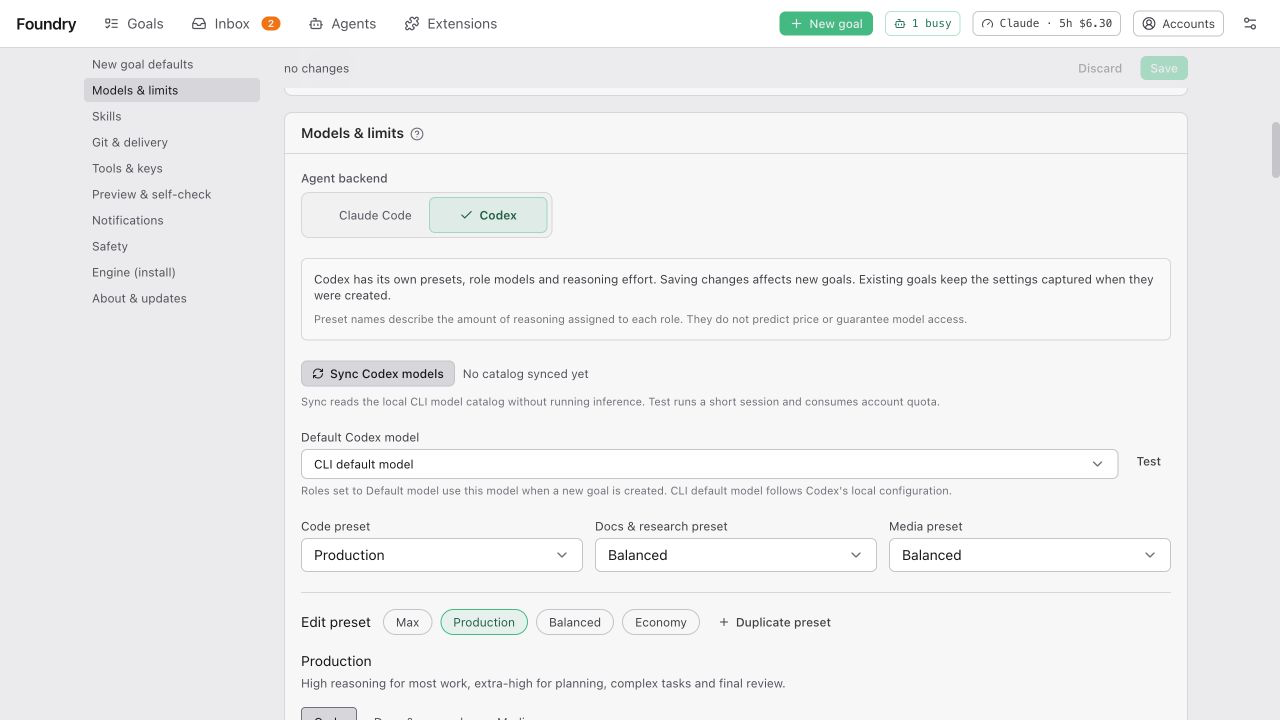
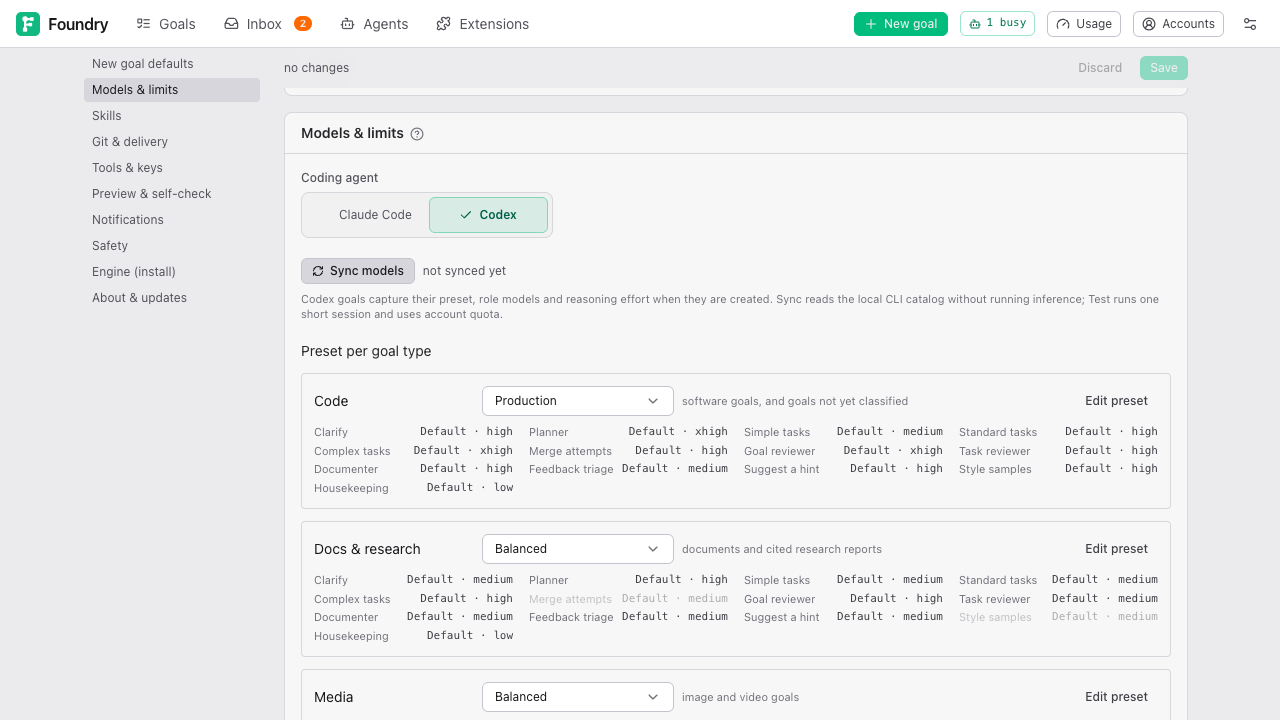
docs(guide): describe the shared Models panel layout for Codex
The Codex part of Models & limits now names the same controls as the other panel: Sync models, Preset per goal type cards with Edit preset, New from this, Reset, Delete, and Other models with Default Codex model and Fallbacks (in order). Both Codex Settings images are recaptured from the seeded demo; the Chinese twin follows.

diff --git a/docs/guide/settings.md b/docs/guide/settings.md
@@ -42,7 +42,7 @@ When to change: set **Interview before the Brief** to **always** if you like to 
 
 ## Models & limits
 
-This section decides which model does each job. Choose **Claude Code** or **Codex** under **Coding agent**; their presets and catalogs are independent. Session limits appear below the selected coding agent’s model settings.
+This section decides which model does each job. Choose **Claude Code** or **Codex** under **Coding agent**; their presets and catalogs are independent. Both panels have the same layout: **Sync models**, **Preset per goal type**, the **Presets** editor, then **Other models**. Session limits appear below the selected coding agent’s model settings.
 
 ![Settings, Models & limits: the Sync models button and one preset per goal type with its model grid](images/settings-models.png)
 
@@ -52,7 +52,7 @@ This section decides which model does each job. Choose **Claude Code** or **Code
 
 ### Codex presets and models
 
-With **Coding agent → Codex** selected, choose **Code preset**, **Docs & research preset** and **Media preset**. The defaults are Production for code and Balanced for the other goal types. These names are independent from Claude presets:
+With **Coding agent → Codex** selected, pick a preset for **Code**, **Docs & research** and **Media** under **Preset per goal type**. Each card lists every role as model · effort, for example `Default · high`; **Default** means the role uses **Default Codex model**. The defaults are Production for code and Balanced for the other goal types. These names are independent from Claude presets:
 
 | Preset | Reasoning profile |
 |---|---|
@@ -61,17 +61,17 @@ With **Coding agent → Codex** selected, choose **Code preset**, **Docs & resea
 | **Balanced** | Mostly `medium`; `high` for Planner, Complex tasks and Goal reviewer, `low` for Housekeeping. |
 | **Economy** | `low` for every role. |
 
-These profiles initially use **Default model · from Settings**. **Default Codex model** selects what that means for new goals. Leaving it as **CLI default model** follows the local Codex configuration; an explicit ID pins a model. Actual speed, quota use and availability depend on that model and your account. Foundry does not infer USD prices from preset names.
+These profiles initially use **Default model · from Settings**. **Default Codex model**, under **Other models**, selects what that means for new goals. Leaving it as **CLI default model** follows the local Codex configuration; an explicit ID pins a model. Actual speed, quota use and availability depend on that model and your account. Foundry does not infer USD prices from preset names.
 
 An Auto goal with the Default preset captures all three goal-type defaults at creation. It starts from the Code table for classification, then uses the captured table for its inferred type. Choosing an explicit preset instead keeps that preset across goal types.
 
-Under **Edit preset**, select a preset and the **Code**, **Docs & research** or **Media** table. Every role has a model dropdown and **Reasoning effort** selection. **Housekeeping** is part of the Codex preset. **Planner** runs in a separate Foundry planning session. Model metadata narrows the effort choices when available; **CLI default** leaves the effort unset. **Custom model ID…** accepts a newer or private model absent from the catalog.
+Press **Edit preset** on a card, or click a preset's name under **Presets**, then pick the **Code**, **Docs & research** or **Media** table. Every role row has a model dropdown, a reasoning effort dropdown and **Test**. A dot • marks a role you changed; hover it to see the shipped value. **Housekeeping** is part of the Codex preset. **Planner** runs in a separate Foundry planning session. Model metadata narrows the effort choices when available; **CLI default** leaves the effort unset. **Custom model ID…** accepts a newer or private model absent from the catalog.
 
-**Duplicate preset** creates an editable copy with a **Preset name** and **Description**. Editing a built-in marks it **modified**; **Reset to built-in** restores its shipped tables. **Delete preset** removes a custom preset and returns goal types using it to their built-in defaults. Press **Save** to apply these changes to new Codex goals. Existing goals retain their captured settings even if the original preset is renamed or deleted.
+**New from this** creates an editable copy with a **Name** and **Description**. Editing a built-in marks it **modified**; **Reset** restores its shipped tables. **Delete** removes a custom preset and returns goal types using it to their built-in defaults. Press **Save** to apply these changes to new Codex goals. Existing goals retain their captured settings even if the original preset is renamed or deleted.
 
-**Sync Codex models** reads the local CLI catalog without running inference. A listed model is not proof of account access. **Test** deliberately runs a short session for the chosen model and effort; it consumes account quota. The result reports availability, with USD cost unavailable. It does not run automatically when you select or save a model.
+**Sync models** reads the local CLI catalog without running inference. A listed model is not proof of account access. **Test** deliberately runs a short session for the chosen model and effort; it consumes account quota. The result reports availability, with USD cost unavailable. It does not run automatically when you select or save a model.
 
-Under **Fallback models, in order**, use **Add fallback**, the arrow buttons and the remove button to choose an ordered chain. **CLI default model** here follows native Codex configuration, independently of the base model in Settings. New goals capture that order. Only a model-unavailability error triggers fallback; account, quota and unsupported-effort errors do not silently change models. With an empty chain, an unavailable model asks for your decision.
+Under **Other models → Fallbacks (in order)**, use **Add fallback**, the arrow buttons and the remove button to choose an ordered chain. **CLI default model** here follows native Codex configuration, independently of the base model in Settings. New goals capture that order. Only a model-unavailability error triggers fallback; account, quota and unsupported-effort errors do not silently change models. With an empty chain, an unavailable model asks for your decision.
 
 ### Presets
 
@@ -145,7 +145,7 @@ Every model choice in the preset editor offers:
 
 ### Housekeeping model
 
-**Housekeeping model** (default Haiku) does Foundry's own one-line chores: deciding what kind of goal it is, summarising logs, checking your usage limit. It costs cents per goal. The only model not set by a preset. **Test** runs one tiny session to confirm the model works and shows what it resolves to.
+**Housekeeping model** (default Haiku), under **Other models**, does Foundry's own one-line chores: deciding what kind of goal it is, summarising logs, checking your usage limit. It costs cents per goal. The only model not set by a preset. **Test** runs one tiny session to confirm the model works and shows what it resolves to.
 
 ### Fallbacks
 

diff --git a/docs/operate/codex.md b/docs/operate/codex.md
@@ -44,7 +44,7 @@ Settings → **Models & limits** → **Coding agent → Codex** provides indepen
 
 Without an explicit preset, the goal captures the configured default table for every nature. Auto classification can therefore choose the captured Docs or Media default without reading later Settings changes. An explicit preset captures that preset's complete tables and remains selected across classification.
 
-**Sync Codex models** reads the local app-server catalog without inference. Discovered models and advertised effort levels are capabilities, not account-access guarantees. **Test** runs one short session using the chosen model and effort, consumes account quota. Custom IDs remain available for models absent from the catalog. Fallback runs only for model-unavailability failures before productive work; authentication, quota and invalid effort errors remain visible and do not silently switch models.
+**Settings → Models & limits → Codex → Sync models** reads the local app-server catalog without inference. Discovered models and advertised effort levels are capabilities, not account-access guarantees. **Test** runs one short session using the chosen model and effort, consumes account quota. Custom IDs remain available for models absent from the catalog. Fallback runs only for model-unavailability failures before productive work; authentication, quota and invalid effort errors remain visible and do not silently switch models.
 
 | Variable | Purpose |
 | --- | --- |
